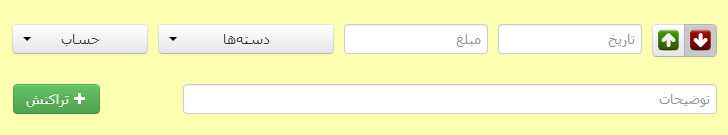
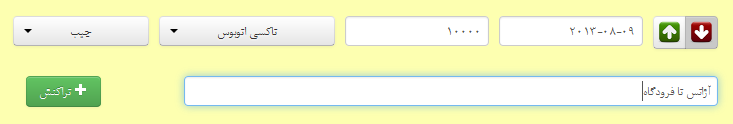
add transaction better error check

diff --git a/page/static/js/transaction.js b/page/static/js/transaction.js
@@ -91,12 +91,6 @@ $(function() {
 })
 $(function() {
 
-	$('#addTranSubmit').click(function(ev) {
-		ev.preventDefault();
-		$(this).parent().parent().submit()
-
-	});
-
 	$('.TranRemove').click(function(ev) {
 		ev.preventDefault();
 		if (confirm('این تراکنش حذف شود؟')) {
@@ -105,7 +99,7 @@ $(function() {
 
 	});
 	$(".submitEdit").click(function(ev) {
-		var cost=$(this).parent().find(".tranPayEdit");
+		var cost = $(this).parent().find(".tranPayEdit");
 		var intRegex = /^\d+$/;
 		if (!intRegex.test(cost.val())) {
 			return false;
@@ -206,6 +200,31 @@ $(function() {
 	});
 	$('#addTran').submit(function(ev) {
 
+		if ($(this).find("#cal_date").val() == "") {
+			$("#addTR-err").text("تاریخ را مشخص کنید.");
+			$("#addTR-err").css("display", "block");
+			$(this).find("#cal_date").addClass("shado");
+			return false;
+
+		}
+
+		if ($(this).find("#cost-mahya").val() == "") {
+			$("#addTR-err").text("مبلغ را مشخص کنید.");
+			$("#addTR-err").css("display", "block");
+			$(this).find("#cal_date").removeClass("shado");
+			$(this).find("#cost-mahya").addClass("shado");
+			return false;
+
+		}
+		var cost = $(this).find("#cost-mahya");
+		var intRegex = /^\d+$/;
+		if (!intRegex.test(cost.val())) {
+			$("#addTR-err").text("مبلغ را به عدد وارد کنید.");
+			$("#addTR-err").css("display", "block");
+			$(this).find("#cost-mahya").addClass("shado");
+			return false;
+		}
+
 		if ($(this).find("#ctgrID").val() == "") {
 			$("#addTR-err").text("دسته را مشخص کنید.");
 			$("#addTR-err").css("display", "block");
@@ -221,6 +240,33 @@ $(function() {
 
 	});
 	$('#addAutoTran').submit(function(ev) {
+		
+		
+		if ($(this).find("#auto_cal_date").val() == "") {
+			$("#auto_addTR-err").text("تاریخ را مشخص کنید.");
+			$("#auto_addTR-err").css("display", "block");
+			$(this).find("#auto_cal_date").addClass("shado");
+			return false;
+
+		}
+
+		if ($(this).find("#auto_cost-mahya").val() == "") {
+			$("#auto_addTR-err").text("مبلغ را مشخص کنید.");
+			$("#auto_addTR-err").css("display", "block");
+			$(this).find("#auto_cal_date").removeClass("shado");
+			$(this).find("#auto_cost-mahya").addClass("shado");
+			return false;
+
+		}
+		var cost = $(this).find("#auto_cost-mahya");
+		var intRegex = /^\d+$/;
+		if (!intRegex.test(cost.val())) {
+			$("#auto_addTR-err").text("مبلغ را به عدد وارد کنید.");
+			$("auto_#addTR-err").css("display", "block");
+			$(this).find("#auto_cost-mahya").addClass("shado");
+			return false;
+		}
+
 
 		if ($(this).find("#auto_ctgrID").val() == "") {
 			$("#auto_addTR-err").text("دسته را مشخص کنید.");
@@ -320,4 +366,5 @@ $(function() {
 			 weekStartDay:5*/
 		});
 	});
+	$('#forReg').delay(5000).fadeOut(400)
 });

diff --git a/page/templates/transaction.html b/page/templates/transaction.html
@@ -49,7 +49,7 @@ bank acount tu jadval ezafe beshe
                     <button class="btn income">
                         <div class="icoUp"></div>
                     </button>
-                    <button class="btn outcome">
+                    <button class="btn outcome selected">
                         <div class="icoDown"></div>
                     </button>
                 </div>
@@ -62,7 +62,7 @@ bank acount tu jadval ezafe beshe
 
             </div>
             <div class="tranPart">
-                <input type="text" placeholder="مبلغ" class="transaction" name="cost" {% if error_cost %} id="shado"{% endif %}>
+                <input type="text" placeholder="مبلغ" class="transaction" name="cost" id="cost-mahya">
             </div>
 
             <div class="tranPart">
@@ -266,7 +266,7 @@ bank acount tu jadval ezafe beshe
 
             </div>
             <div class="tranPart">
-                <input type="text" placeholder="مبلغ" class="transaction" name="cost" {% if auto_error_cost %} id="shado"{% endif %}>
+                <input type="text" placeholder="مبلغ" class="transaction" name="cost" id="auto_cost-mahya">
             </div>
 
 

diff --git a/page/static/css/transaction.css b/page/static/css/transaction.css
@@ -299,8 +299,8 @@ h3 {
 	color: #f00;
 	display: none;
 }
-#shado{
-	    box-shadow: 0px 1px 1px rgba(0, 0, 0, 0.075) inset, 0px 0px 8px rgba(237, 27, 36, 0.6);
+.shado{
+	    box-shadow: 0px 1px 1px rgba(0, 0, 0, 0.075) inset, 0px 0px 8px rgba(237, 27, 36, 0.6)!important;
 
 }
 
